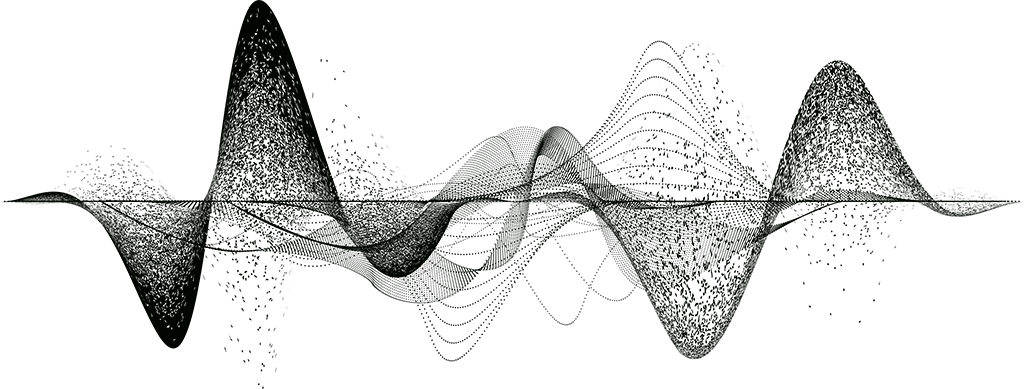
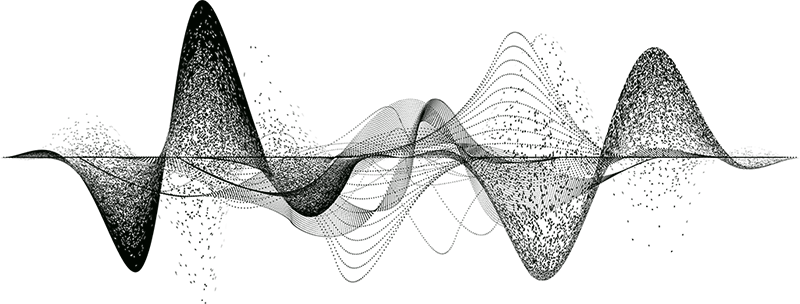
Optimize performance and accessibility: async fonts, image dimensions, main landmark

diff --git a/index.html b/index.html
@@ -36,10 +36,15 @@
   <!-- Favicon -->
   <link rel="icon" type="image/svg+xml" href="favicon.svg">
 
-  <!-- Tipografías -->
+  <!-- Tipografías (carga asíncrona para no bloquear el render) -->
   <link rel="preconnect" href="https://fonts.googleapis.com">
   <link rel="preconnect" href="https://fonts.gstatic.com" crossorigin>
-  <link href="https://fonts.googleapis.com/css2?family=Cormorant+Garamond:ital,wght@0,300;0,400;0,500;1,300;1,400&family=Jost:wght@200;300;400;500&display=swap" rel="stylesheet">
+  <link rel="preload" as="style"
+        href="https://fonts.googleapis.com/css2?family=Cormorant+Garamond:ital,wght@0,300;0,400;0,500;1,300;1,400&family=Jost:wght@200;300;400;500&display=swap"
+        onload="this.onload=null;this.rel='stylesheet'">
+  <noscript>
+    <link rel="stylesheet" href="https://fonts.googleapis.com/css2?family=Cormorant+Garamond:ital,wght@0,300;0,400;0,500;1,300;1,400&family=Jost:wght@200;300;400;500&display=swap">
+  </noscript>
 
   <!-- Estilos compartidos -->
   <link rel="stylesheet" href="css/estilos.css">
@@ -56,6 +61,8 @@
     <button class="lang-btn" id="btn-en" onclick="setLang('en')">EN</button>
   </div>
 
+
+  <main>
 
   <!-- SECCIÓN: Hero a sangre con la imagen de la persona grabando -->
   <section class="hero">
@@ -93,7 +100,7 @@
         <span class="en">Interactive map and documented recordings</span>
       </p>
       <div class="acceso-onda">
-        <img src="img/onda-acceso.png" alt="">
+        <img src="img/onda-acceso.png" alt="" width="800" height="304">
       </div>
       <span class="acceso-cta">
         <span class="es">Entrar al archivo →</span>
@@ -356,6 +363,8 @@
     </div>
   </section>
 
+
+  </main>
 
   <!-- SECCIÓN: Footer -->
   <footer>

diff --git a/archivo/murcia/cartagena/001-isla-plana.html b/archivo/murcia/cartagena/001-isla-plana.html
@@ -36,10 +36,15 @@
   <!-- Favicon -->
   <link rel="icon" type="image/svg+xml" href="../../../favicon.svg">
 
-  <!-- Tipografías -->
+  <!-- Tipografías (carga asíncrona para no bloquear el render) -->
   <link rel="preconnect" href="https://fonts.googleapis.com">
   <link rel="preconnect" href="https://fonts.gstatic.com" crossorigin>
-  <link href="https://fonts.googleapis.com/css2?family=Cormorant+Garamond:ital,wght@0,300;0,400;0,500;1,300;1,400&family=Jost:wght@200;300;400;500&display=swap" rel="stylesheet">
+  <link rel="preload" as="style"
+        href="https://fonts.googleapis.com/css2?family=Cormorant+Garamond:ital,wght@0,300;0,400;0,500;1,300;1,400&family=Jost:wght@200;300;400;500&display=swap"
+        onload="this.onload=null;this.rel='stylesheet'">
+  <noscript>
+    <link rel="stylesheet" href="https://fonts.googleapis.com/css2?family=Cormorant+Garamond:ital,wght@0,300;0,400;0,500;1,300;1,400&family=Jost:wght@200;300;400;500&display=swap">
+  </noscript>
 
   <!-- Leaflet -->
   <link rel="stylesheet" href="https://unpkg.com/leaflet@1.9.4/dist/leaflet.css">
@@ -76,6 +81,8 @@
     <div class="lang-divider"></div>
     <button class="lang-btn" id="btn-en" onclick="setLang('en')">EN</button>
   </div>
+
+  <main>
 
   <!-- CABECERA -->
   <header class="paisaje-cabecera">
@@ -267,6 +274,8 @@
       <span class="en">Back to archive</span>
     </a>
   </div>
+
+  </main>
 
   <!-- FOOTER -->
   <footer>

diff --git a/archivo/murcia/cartagena.html b/archivo/murcia/cartagena.html
@@ -33,10 +33,15 @@
   <!-- Favicon -->
   <link rel="icon" type="image/svg+xml" href="../../favicon.svg">
 
-  <!-- Tipografías -->
+  <!-- Tipografías (carga asíncrona para no bloquear el render) -->
   <link rel="preconnect" href="https://fonts.googleapis.com">
   <link rel="preconnect" href="https://fonts.gstatic.com" crossorigin>
-  <link href="https://fonts.googleapis.com/css2?family=Cormorant+Garamond:ital,wght@0,300;0,400;0,500;1,300;1,400&family=Jost:wght@200;300;400;500&display=swap" rel="stylesheet">
+  <link rel="preload" as="style"
+        href="https://fonts.googleapis.com/css2?family=Cormorant+Garamond:ital,wght@0,300;0,400;0,500;1,300;1,400&family=Jost:wght@200;300;400;500&display=swap"
+        onload="this.onload=null;this.rel='stylesheet'">
+  <noscript>
+    <link rel="stylesheet" href="https://fonts.googleapis.com/css2?family=Cormorant+Garamond:ital,wght@0,300;0,400;0,500;1,300;1,400&family=Jost:wght@200;300;400;500&display=swap">
+  </noscript>
 
   <!-- Leaflet + MarkerCluster (CDN) -->
   <link rel="stylesheet" href="https://unpkg.com/leaflet@1.9.4/dist/leaflet.css">

diff --git a/archivo.html b/archivo.html
@@ -33,10 +33,15 @@
   <!-- Favicon -->
   <link rel="icon" type="image/svg+xml" href="favicon.svg">
 
-  <!-- Tipografías -->
+  <!-- Tipografías (carga asíncrona para no bloquear el render) -->
   <link rel="preconnect" href="https://fonts.googleapis.com">
   <link rel="preconnect" href="https://fonts.gstatic.com" crossorigin>
-  <link href="https://fonts.googleapis.com/css2?family=Cormorant+Garamond:ital,wght@0,300;0,400;0,500;1,300;1,400&family=Jost:wght@200;300;400;500&display=swap" rel="stylesheet">
+  <link rel="preload" as="style"
+        href="https://fonts.googleapis.com/css2?family=Cormorant+Garamond:ital,wght@0,300;0,400;0,500;1,300;1,400&family=Jost:wght@200;300;400;500&display=swap"
+        onload="this.onload=null;this.rel='stylesheet'">
+  <noscript>
+    <link rel="stylesheet" href="https://fonts.googleapis.com/css2?family=Cormorant+Garamond:ital,wght@0,300;0,400;0,500;1,300;1,400&family=Jost:wght@200;300;400;500&display=swap">
+  </noscript>
 
   <!-- Leaflet + MarkerCluster (CDN) -->
   <link rel="stylesheet" href="https://unpkg.com/leaflet@1.9.4/dist/leaflet.css">
